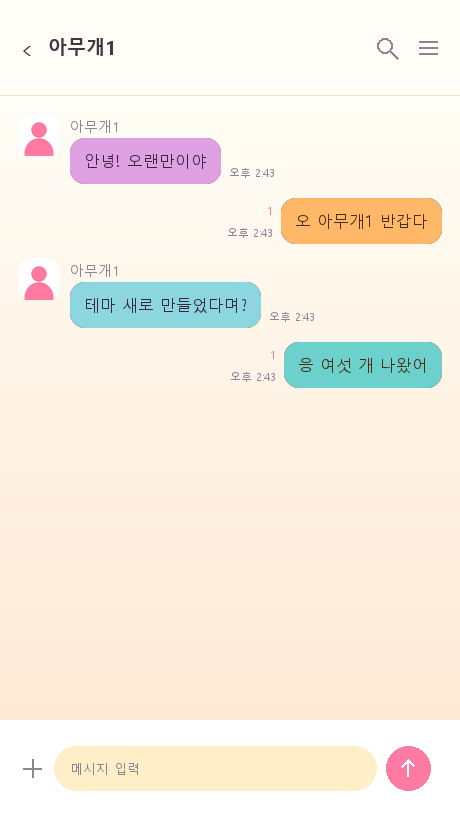
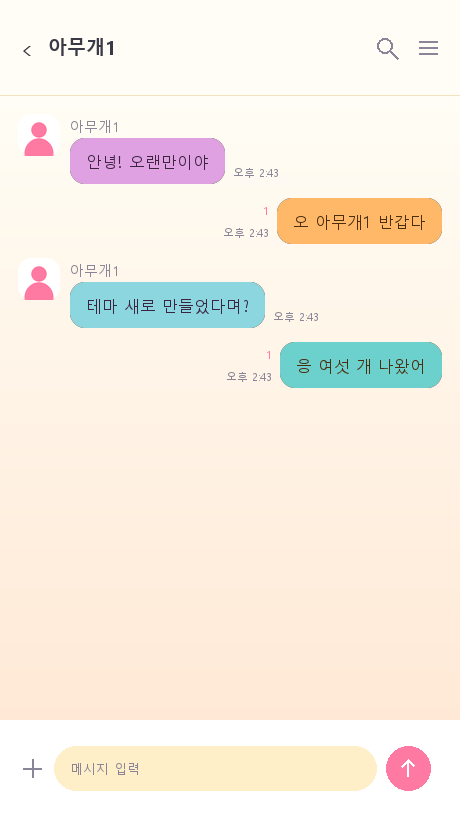
글로우가 폰에서 안 보이던 것과 말풍선이 짜쳐 보이던 것을 함께 고친다
둘은 같은 원인이었다. 글로우 여백은 말풍선 프레임 바깥이 아니라 안쪽에 들어간다.
카톡은 글자와 edgeinsets 로 프레임을 잡고 거기에 이미지를 늘려 채우므로,
여백 12pt 만큼 몸통이 안으로 밀린다. edgeinsets 는 그대로 9/13 이었으니 글자가
몸통 가장자리에 1pt 차이로 붙었다. 미리보기는 글로우를 말풍선 바깥에 그려서
이 문제가 안 보였다.

edgeinsets 를 글로우 여백만큼 같이 키운다. 기본 여백도 11/16 으로 올렸다.
미리보기도 같은 값을 쓰게 해서 폰과 어긋나지 않게 했다.

글로우 자체도 너무 옅었다. 넓게 흐리면 알파가 얇게 퍼져 가장자리에서 39 까지
떨어졌다. 덜 흐리고 몸통 가까운 쪽을 끌어올려 144 까지 올렸다.

diff --git a/tools/gen.py b/tools/gen.py
@@ -28,6 +28,7 @@ OUT = os.path.join(ROOT, 'build-src')
 
 # 말풍선 기하 (pt). CAP 은 CSS 의 cap inset 과 반드시 같아야 한다
 SIZE, RADIUS, CAP = 44, 14, 18
+INSET_V, INSET_H = 11, 16   # 글자와 말풍선 사이 기본 여백 (pt)
 
 
 def rgb(h):
@@ -117,8 +118,11 @@ def bubble_box(w, h, colors, radius, style='solid', alpha=255, glow=None, pad=0,
     if gc == 'auto':
         # 말풍선마다 자기 색으로 빛난다. 칸마다 색이 다른 테마에 어울린다
         gc = mid(colors[0], colors[1])
-    halo.paste(Image.new('RGBA', (gw, gh), rgb(gc) + (ga,)), (0, 0), shape)
-    halo = halo.filter(ImageFilter.GaussianBlur(radius=pad * 0.6))
+    halo.paste(Image.new('RGBA', (gw, gh), rgb(gc) + (255,)), (0, 0), shape)
+    halo = halo.filter(ImageFilter.GaussianBlur(radius=pad * 0.42))
+    # 흐리면 알파가 얇게 퍼져서 거의 안 보인다. 몸통 가까운 쪽을 끌어올린다
+    halo.putalpha(halo.getchannel('A').point(
+        lambda v: min(255, int(v * 2.4 * ga / 255))))
     halo.alpha_composite(out, (pad, pad))
     return halo
 
@@ -313,6 +317,10 @@ InputBarStyle-Chat
  세로 그라데이션인 이유는 말풍선이 가로로 늘어날 때 각 줄의 색이 유지되기 때문이다.
  뒤의 숫자 두 개가 늘어나지 않는 가장자리이고 gen.py 의 CAP 과 같아야 한다.
 
+ edgeinsets 는 글자와 프레임 사이 여백이다. 글로우가 있으면 그림 바깥쪽 여백이
+ 프레임 안에 들어가므로 몸통이 그만큼 안으로 밀린다. 여백을 같이 키우지 않으면
+ 글자가 몸통 가장자리에 붙어버린다.
+
  01 과 02 에 다른 색을 주면 눌린 말풍선과 그룹 말풍선이 달라 보인다.
 */
 MessageCellStyle-Send
@@ -322,8 +330,8 @@ MessageCellStyle-Send
     -ios-group-background-image: 'chatroomBubbleSend02.png' {cap}px {cap}px;
     -ios-group-selected-background-image: 'chatroomBubbleSend01.png' {cap}px {cap}px;
 
-    -ios-title-edgeinsets: 9px 13px 9px 13px;
-    -ios-group-title-edgeinsets: 9px 13px 9px 13px;
+    -ios-title-edgeinsets: {ins};
+    -ios-group-title-edgeinsets: {ins};
 
     -ios-text-color: {send_text};
     -ios-selected-text-color: {send_text};
@@ -337,8 +345,8 @@ MessageCellStyle-Receive
     -ios-group-background-image: 'chatroomBubbleReceive02.png' {cap}px {cap}px;
     -ios-group-selected-background-image: 'chatroomBubbleReceive01.png' {cap}px {cap}px;
 
-    -ios-title-edgeinsets: 9px 13px 9px 13px;
-    -ios-group-title-edgeinsets: 9px 13px 9px 13px;
+    -ios-title-edgeinsets: {ins};
+    -ios-group-title-edgeinsets: {ins};
 
     -ios-text-color: {recv_text};
     -ios-selected-text-color: {recv_text};
@@ -438,7 +446,10 @@ def gen_ios(t, root):
     ca = t.get('cell_alpha', 1.0)
     fields = dict(t)
     fields.pop('cell_alpha', None)          # 아래에서 문자열로 다시 넣는다
-    css = CSS.format(version=themes.VERSION, cap=CAP + pad, chatbg=chatbg, mainbg=mainbg,
+    ins = '%dpx %dpx %dpx %dpx' % (INSET_V + pad, INSET_H + pad,
+                                  INSET_V + pad, INSET_H + pad)
+    css = CSS.format(version=themes.VERSION, cap=CAP + pad, ins=ins,
+                     chatbg=chatbg, mainbg=mainbg,
                      cell_alpha='%.2f' % ca,
                      cell_alpha_sel='%.2f' % min(1.0, ca + 0.15), **fields)
     with open(os.path.join(root, 'KakaoTalkTheme.css'), 'w', encoding='utf-8') as f:

diff --git a/tools/preview.py b/tools/preview.py
@@ -167,7 +167,8 @@ def chat(t):
     _header(img, t, '아무개1', back=True)
     d = ImageDraw.Draw(img)
 
-    pad_x, pad_y = 14, 10
+    # 실제 테마의 edgeinsets 와 같은 값을 쓴다. 미리보기만 넉넉하면 폰에서 짜쳐 보인다
+    pad_x, pad_y = gen.INSET_H, gen.INSET_V
     y = HEAD + 18
     for i, (side, msg) in enumerate(CHAT):
         # 짝수/홀수로 01 과 02 를 번갈아 쓴다. 두 칸의 색 차이가 눈에 보이게
@@ -176,7 +177,7 @@ def chat(t):
         tc = rgb(t['recv_text'] if side == 'them' else t['send_text'])
 
         tw = _text_w(d, msg, F_MSG)
-        bw, bh = tw + pad_x * 2, 26 + pad_y * 2
+        bw, bh = tw + pad_x * 2, 24 + pad_y * 2
 
         if side == 'them':
             if i == 0 or CHAT[i - 1][0] != 'them':

diff --git a/tools/themes.py b/tools/themes.py
@@ -37,7 +37,7 @@ chat_bg
   None 이면 단색. ('linear', 위, 아래) 또는 ('aurora', 바탕, [색...]) 이면 이미지를 그린다.
 """
 
-VERSION = '0.6'
+VERSION = '0.7'
 
 THEMES = [
     dict(
